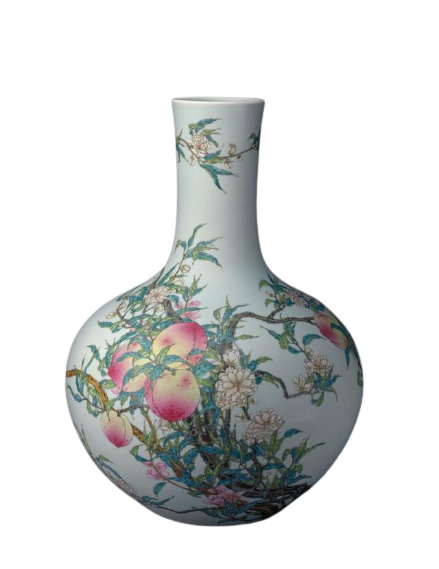
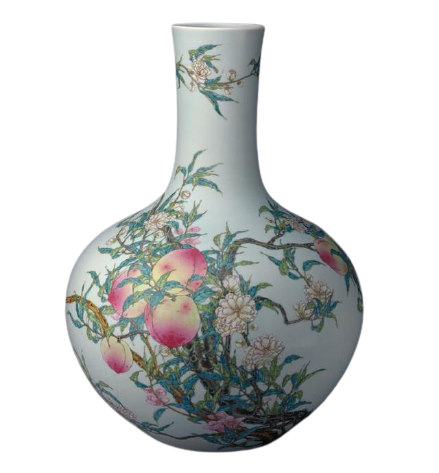
Fix caption not visible issue

Changed region(s): [[0.1481, 0.0296, 0.8292, 0.9767], [0.7699, 0.7696, 0.7995, 0.7992], [0.1777, 0.7696, 0.2073, 0.7992]]

diff --git a/en/history/chinese.html b/en/history/chinese.html
@@ -84,14 +84,15 @@
 </div>
 <div class="container">
     <div class="row">
-        <div class="col-7">
+        <div class="col-7 vertCenter">
             <p>The Qing Dynasty was believed to become the peak of Chinese pottery production was seen in the reigns of Kangxi (1661-1722), Yongzheng (1722-1735), and Qianlong (1735-1796) during which improvement was seen in almost all ceramic types, including the blue and white wares, polychrome wares, etc. The improved enamel glazes of early Qing Dynasty being fired at a higher temperature also acquired a more brilliant look than those of the Ming Dynasty.</p>
             <p>The development of porcelain in the Kangxi, Yongzheng, and Qianlong times during the Qing Dynasty (Approximately 1644 AD-1912 AD) was believed to become the peak in the history of Chinese pottery, only behind the Song Dynasty. During those periods, many new varieties were explored and innovated for imperial uses, since a variety of porcelains with distinctive colors, distinct levels and rare were manufactured. The designs were very exquisite that are often compared with the carved "national porcelain" (國瓷). The monochromatic glaze, blue and white, red in glaze, enamel, famille rose and other varieties of the dynasty all have extremely exquisite appearances and innovative varieties. Qing Dynasty Art embraced more glaze colors and meticulously painted scenes. However, during the Qianlong period, the outbreak of the Revolution in 1911 brought to an end the history of the development of ancient Chinese ceramic.</p>
         </div>
-        <div class="col-1 position-relative"><figcaption class="chinese06 figure-caption">Familie rose (粉彩瓷) made in Qing Dynasty with a variety of colors and multicultural designs</figcaption></div>
-        <div class="col-1"></div>
-        <div class="col-3 position-relative">
-            <img class="chinese06" src="/static/img/chinese/06.png" alt="">
+        <div class="col-5 position-relative">
+            <div class="chinese06 text-center">
+                <img class="w90p" src="/static/img/chinese/06.png" alt="">
+                <figcaption class="w50p ml25p text-center figure-caption">Familie rose (粉彩瓷) made in Qing Dynasty with a variety of colors and multicultural designs</figcaption>
+            </div>
         </div>
     </div>
 </div>

diff --git a/static/css/styles.css b/static/css/styles.css
@@ -188,8 +188,11 @@ figcaption.chinese02 {
     width: 160px;
     padding: 10px;
 }
-
-img.chinese06 {
+div.chinese06 {
+    position: absolute;
+    top: -200px;
+}
+/* img.chinese06 {
     position: absolute;
     top: -300px;
     left: -60%;
@@ -202,7 +205,7 @@ figcaption.chinese06 {
     left: 25%;
     width: 110%;
     z-index: 1;
-}
+} */
 #scrollTopBtn {
     width: 40px;
     height: 40px;

diff --git a/static/css/easeofuse.css b/static/css/easeofuse.css
@@ -9,6 +9,9 @@
 .ml10p {
     margin-left: 10%;
 }
+.ml25p {
+    margin-left: 25%;
+}
 .ml5p {
     margin-left: 5%;
 }
